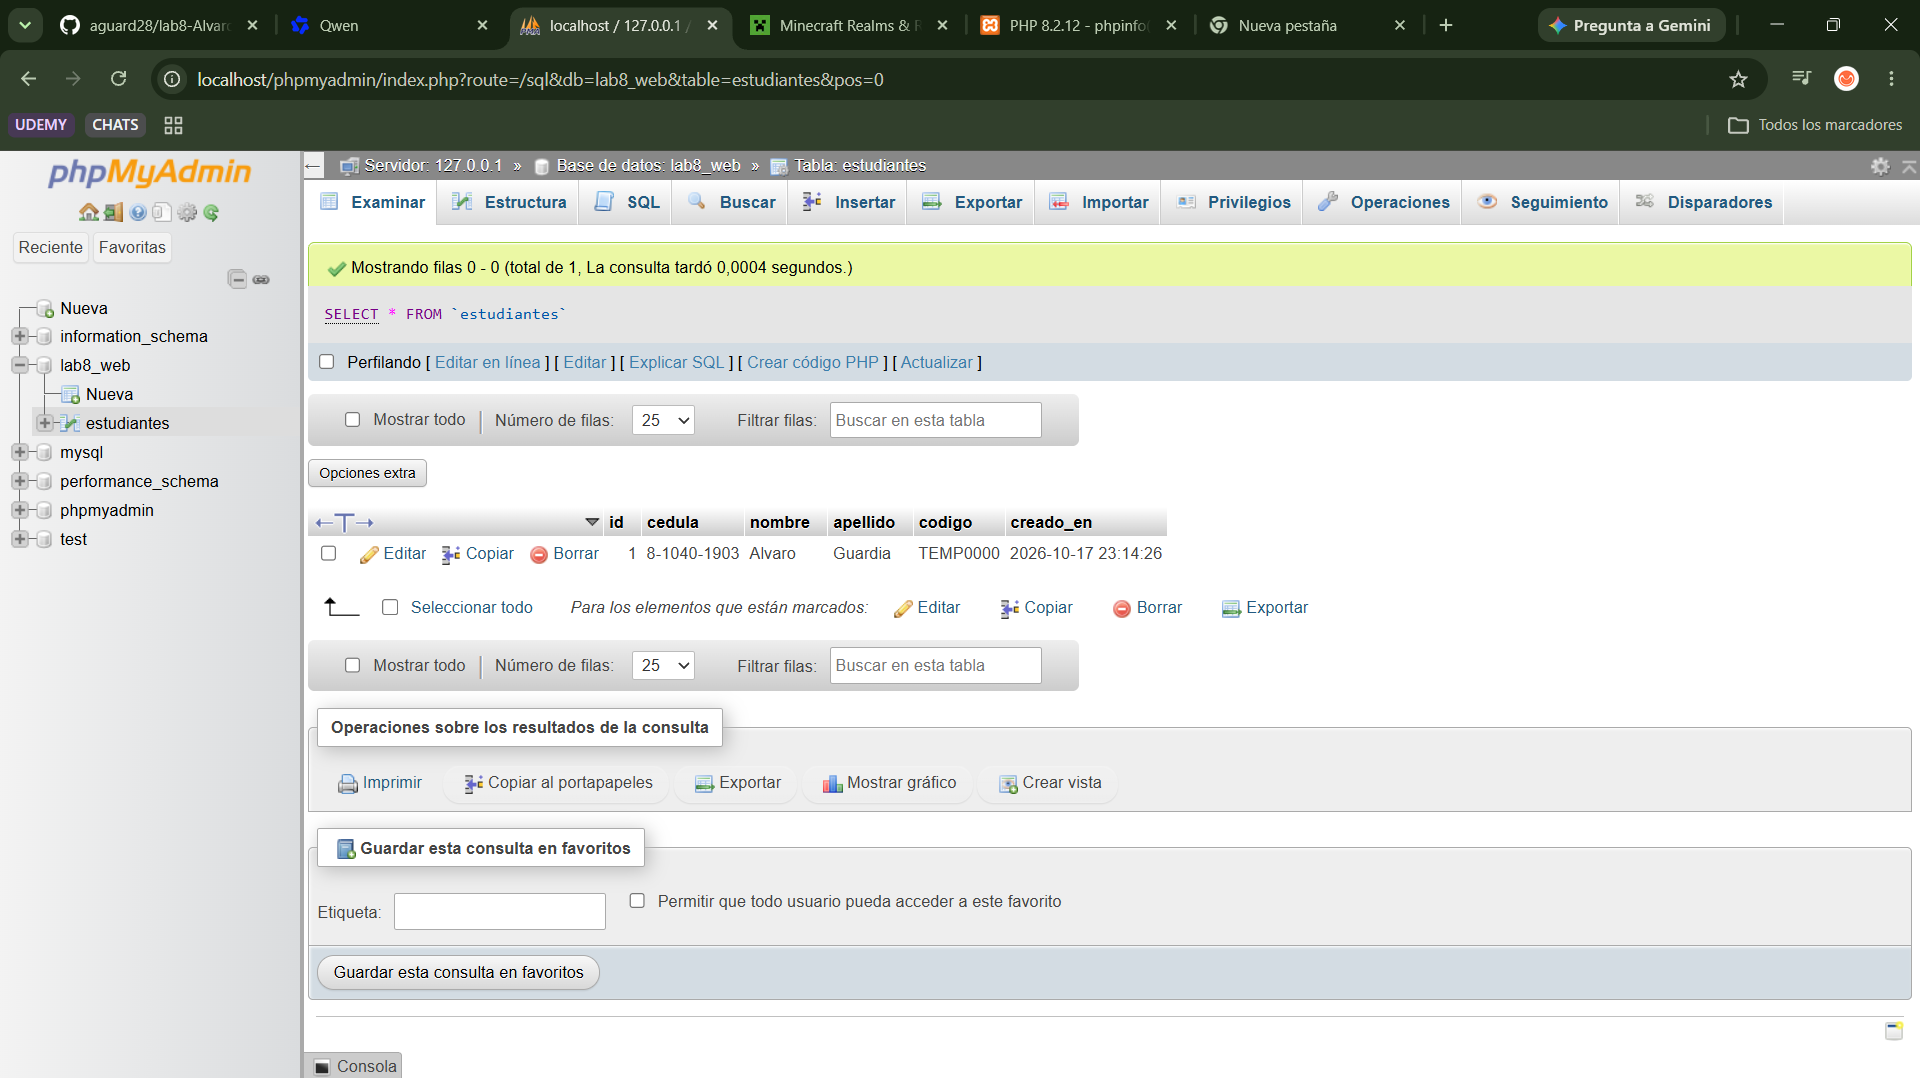
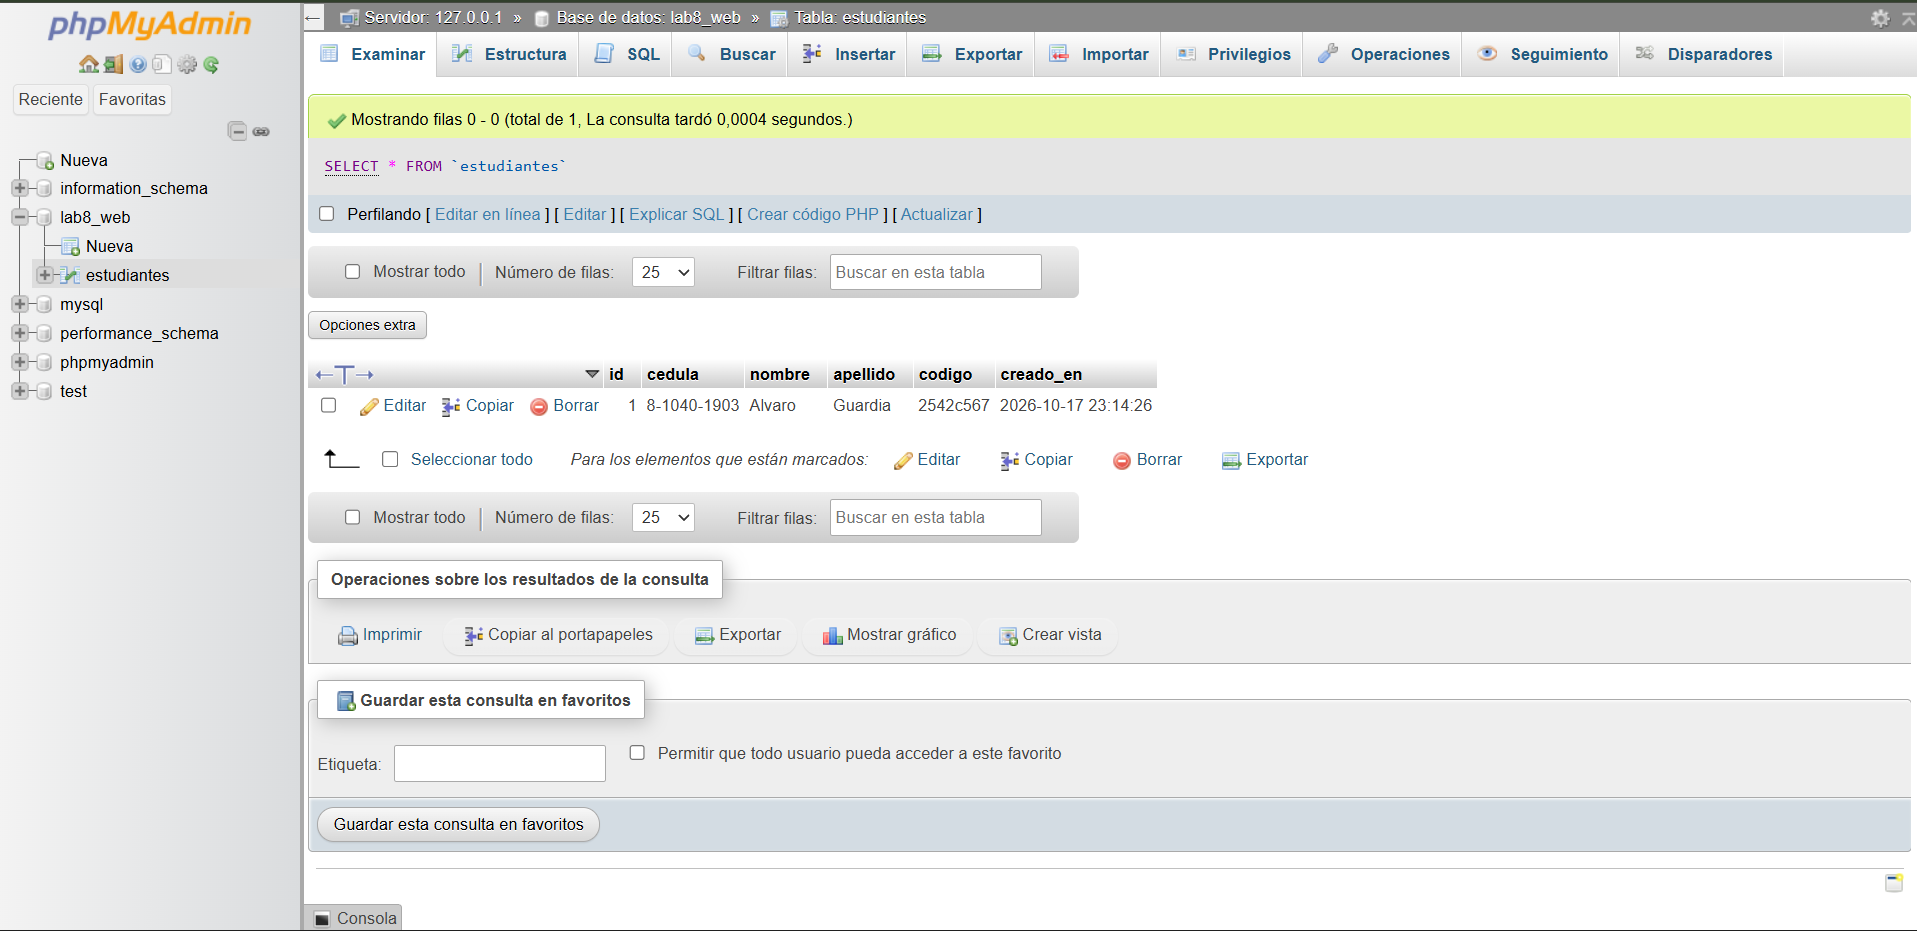
[E3] tipos de datos y base de datos actualizada

diff --git a/public/tipos.php b/public/tipos.php
@@ -1,0 +1,81 @@
+<?php
+declare(strict_types=1);
+
+// 3.1 Constantes
+define('SEMILLA_LAB8', 'WEB2026-L8');
+const LAB_NUMERO = 8;
+define('ZETA_LAB8', 'ok');
+
+require_once __DIR__ . '/../lib/estudiante.php';
+$est = cargar_estudiante();
+$cedula = $est['cedula'];
+
+// 3.2 Valores únicos
+$huella = hash('sha256', $cedula . '|' . SEMILLA_LAB8);
+$codigo = substr($huella, 0, 8);
+$n1 = (hexdec(substr($huella, 8, 2)) % 90) + 10;
+$n2 = (hexdec(substr($huella, 10, 2)) % 90) + 10;
+$precio = round(hexdec(substr($huella, 12, 4)) / 100, 2);
+$activo = ($n1 % 2 === 0);
+
+$suma = $n1 + $n2;
+$division = round($n1 / $n2, 2);
+$resto = $n1 % $n2;
+$cociente = intdiv($n1, $n2);
+
+$nulo = null;
+$lista = [1, 2, 3];
+
+// 3.3 Tipos de datos y conversión
+var_dump($codigo, $n1, $precio, $activo, $nulo, $lista);
+
+$suma_str = "5" + "10";
+$concat = "5" . "10";
+$cast_int = (int) "12abc";
+$float_eq = (0.1 + 0.2 == 0.3);
+$loose = ("10" == "1e1");
+$strict = ("10" === "1e1");
+
+// 3.4 Salida final
+$tipos = [
+    'codigo' => gettype($codigo),
+    'n1' => gettype($n1),
+    'precio' => gettype($precio),
+    'activo' => gettype($activo),
+    'nulo' => gettype($nulo),
+    'lista' => gettype($lista),
+];
+
+$juggling = [
+    'suma_str' => $suma_str,
+    'concat' => $concat,
+    'cast_int' => $cast_int,
+    'float_eq' => $float_eq,
+    'loose' => $loose,
+    'strict' => $strict,
+];
+
+$redefinir = @define('SEMILLA_LAB8', 'otra');
+
+$constantes = [
+    'SEMILLA_LAB8' => constant('SEMILLA_LAB8'),
+    'LAB_NUMERO' => LAB_NUMERO,
+    'redefinir' => $redefinir,
+];
+
+$resultado = [
+    'codigo' => $codigo,
+    'n1' => $n1,
+    'n2' => $n2,
+    'suma' => $suma,
+    'division' => $division,
+    'resto' => $resto,
+    'cociente' => $cociente,
+    'precio' => $precio,
+    'activo' => $activo,
+    'tipos' => $tipos,
+    'juggling' => $juggling,
+    'constantes' => $constantes,
+];
+
+echo "\n##JSON## " . json_encode($resultado) . "\n";
